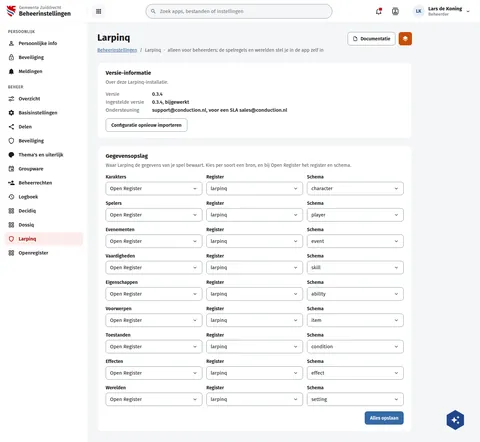
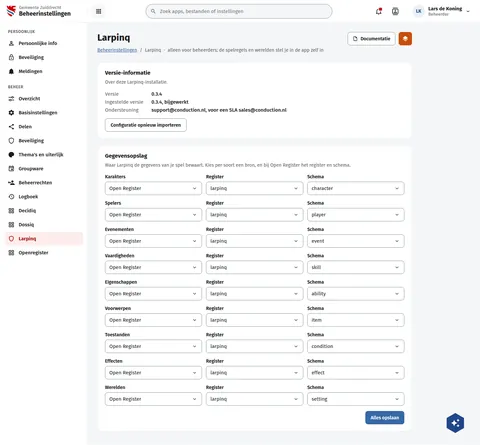
fix(screens): admin settings cards draw the shared 20px 22px padding
NcBeheerInstellingen drew its section cards at 20px 24px. Live's shared
admin card rule (look-board.css) is 20px 22px, as the Pt/Kq/Hu boards draw
it, so DqBeheerGeavanceerd's StUF-ZKN footnote wrapped one line early on the
board (r35 StUF-ZKN-endpoints -21). Coordinator call 29 Oct 13:00: keep the
shared rule, amend the board. Rebuilt with build.py --only for the three
boards that import the component.

Assisted-by: ClaudeCode:claude-opus-5-5

diff --git a/preview/screens/boards/DqBeheerGeavanceerd.html b/preview/screens/boards/DqBeheerGeavanceerd.html
@@ -85,7 +85,7 @@ a{color:var(--sc-primary, #3669a5)}a:hover{color:var(--sc-primary-deep, #234a78)
 </div>
 
         
-          <section aria-labelledby="nbi-s0" style="background: #ffffff; border: 1px solid var(--sc-work-line, #e4e6ea); border-radius: 12px; padding: 20px 24px; display: flex; flex-direction: column; gap: 6px">
+          <section aria-labelledby="nbi-s0" style="background: #ffffff; border: 1px solid var(--sc-work-line, #e4e6ea); border-radius: 12px; padding: 20px 22px; display: flex; flex-direction: column; gap: 6px">
             <h2 id="nbi-s0" style="margin: 0; font-size: 17px; font-weight: 700; line-height: 1.3">ZGW-API-koppeling</h2>
             <p style="margin: 0; font-size: 14px; color: var(--sc-work-muted, #5e6168); line-height: 1.5">Configureer eigenschapstoewijzingen tussen Engelse OpenRegister-velden en Nederlandse ZGW-API-velden</p>
             <div style="display: flex; flex-direction: column; gap: 16px; margin-top: 10px">
@@ -115,7 +115,7 @@ a{color:var(--sc-primary, #3669a5)}a:hover{color:var(--sc-primary-deep, #234a78)
             </div>
           </section>
         
-          <section aria-labelledby="nbi-s1" style="background: #ffffff; border: 1px solid var(--sc-work-line, #e4e6ea); border-radius: 12px; padding: 20px 24px; display: flex; flex-direction: column; gap: 6px">
+          <section aria-labelledby="nbi-s1" style="background: #ffffff; border: 1px solid var(--sc-work-line, #e4e6ea); border-radius: 12px; padding: 20px 22px; display: flex; flex-direction: column; gap: 6px">
             <h2 id="nbi-s1" style="margin: 0; font-size: 17px; font-weight: 700; line-height: 1.3">KCC-werkplek-integratie</h2>
             <p style="margin: 0; font-size: 14px; color: var(--sc-work-muted, #5e6168); line-height: 1.5">Burgeridentificatie, voorblad-limieten, sentiment-triggerwoorden en belplan-overflowdrempels voor de KCC-contactcenterbrug.</p>
             <div style="display: flex; flex-direction: column; gap: 16px; margin-top: 10px">
@@ -280,7 +280,7 @@ media</textarea><span style="font-size: 13px; color: var(--sc-work-muted, #5e616
             </div>
           </section>
         
-          <section aria-labelledby="nbi-s2" style="background: #ffffff; border: 1px solid var(--sc-work-line, #e4e6ea); border-radius: 12px; padding: 20px 24px; display: flex; flex-direction: column; gap: 6px">
+          <section aria-labelledby="nbi-s2" style="background: #ffffff; border: 1px solid var(--sc-work-line, #e4e6ea); border-radius: 12px; padding: 20px 22px; display: flex; flex-direction: column; gap: 6px">
             <h2 id="nbi-s2" style="margin: 0; font-size: 17px; font-weight: 700; line-height: 1.3">Beslistabellen (DMN)</h2>
             
             <div style="display: flex; flex-direction: column; gap: 16px; margin-top: 10px">
@@ -310,7 +310,7 @@ media</textarea><span style="font-size: 13px; color: var(--sc-work-muted, #5e616
             </div>
           </section>
         
-          <section aria-labelledby="nbi-s3" style="background: #ffffff; border: 1px solid var(--sc-work-line, #e4e6ea); border-radius: 12px; padding: 20px 24px; display: flex; flex-direction: column; gap: 6px">
+          <section aria-labelledby="nbi-s3" style="background: #ffffff; border: 1px solid var(--sc-work-line, #e4e6ea); border-radius: 12px; padding: 20px 22px; display: flex; flex-direction: column; gap: 6px">
             <h2 id="nbi-s3" style="margin: 0; font-size: 17px; font-weight: 700; line-height: 1.3">Financiële integratie: dwangsom-callback</h2>
             <p style="margin: 0; font-size: 14px; color: var(--sc-work-muted, #5e6168); line-height: 1.5">Configureer het gedeelde geheim waarmee ERP-betalingsbevestigingscallbacks voor dwangsomuitbetalingen worden gevalideerd.</p>
             <div style="display: flex; flex-direction: column; gap: 16px; margin-top: 10px">
@@ -406,7 +406,7 @@ media</textarea><span style="font-size: 13px; color: var(--sc-work-muted, #5e616
             </div>
           </section>
         
-          <section aria-labelledby="nbi-s4" style="background: #ffffff; border: 1px solid var(--sc-work-line, #e4e6ea); border-radius: 12px; padding: 20px 24px; display: flex; flex-direction: column; gap: 6px">
+          <section aria-labelledby="nbi-s4" style="background: #ffffff; border: 1px solid var(--sc-work-line, #e4e6ea); border-radius: 12px; padding: 20px 22px; display: flex; flex-direction: column; gap: 6px">
             <h2 id="nbi-s4" style="margin: 0; font-size: 17px; font-weight: 700; line-height: 1.3">StUF-ZKN-endpoints</h2>
             <p style="margin: 0; font-size: 14px; color: var(--sc-work-muted, #5e6168); line-height: 1.5">Uitgaande StUF-ZKN/BG-zaaksysteemendpoints per gemeente, met circuit-breakerstatus per endpoint. Endpoints, WSSE-inloggegevens en mTLS-certificaten worden beheerd door de platformbeheerder.</p>
             <div style="display: flex; flex-direction: column; gap: 16px; margin-top: 10px">
@@ -458,7 +458,7 @@ media</textarea><span style="font-size: 13px; color: var(--sc-work-muted, #5e616
             </div>
           </section>
         
-          <section aria-labelledby="nbi-s5" style="background: #ffffff; border: 1px solid var(--sc-work-line, #e4e6ea); border-radius: 12px; padding: 20px 24px; display: flex; flex-direction: column; gap: 6px">
+          <section aria-labelledby="nbi-s5" style="background: #ffffff; border: 1px solid var(--sc-work-line, #e4e6ea); border-radius: 12px; padding: 20px 22px; display: flex; flex-direction: column; gap: 6px">
             <h2 id="nbi-s5" style="margin: 0; font-size: 17px; font-weight: 700; line-height: 1.3">StUF-ZKN-auditlog</h2>
             <p style="margin: 0; font-size: 14px; color: var(--sc-work-muted, #5e6168); line-height: 1.5">Auditlog per aanroep voor uitgaande en inkomende StUF-SOAP-enveloppen (volledige XML, HTTP-status, duur, herhaalgeschiedenis).</p>
             <div style="display: flex; flex-direction: column; gap: 16px; margin-top: 10px">
@@ -532,7 +532,7 @@ media</textarea><span style="font-size: 13px; color: var(--sc-work-muted, #5e616
             </div>
           </section>
         
-          <section aria-labelledby="nbi-s6" style="background: #ffffff; border: 1px solid var(--sc-work-line, #e4e6ea); border-radius: 12px; padding: 20px 24px; display: flex; flex-direction: column; gap: 6px">
+          <section aria-labelledby="nbi-s6" style="background: #ffffff; border: 1px solid var(--sc-work-line, #e4e6ea); border-radius: 12px; padding: 20px 22px; display: flex; flex-direction: column; gap: 6px">
             <h2 id="nbi-s6" style="margin: 0; font-size: 17px; font-weight: 700; line-height: 1.3">Storeregister</h2>
             <p style="margin: 0; font-size: 14px; color: var(--sc-work-muted, #5e6168); line-height: 1.5">Verbind de OpenRegister-instantie die de Store-pagina doorzoekt. Zonder verbinding blijft dossiq offline en toont het alleen de eigen sjablonen.</p>
             <div style="display: flex; flex-direction: column; gap: 16px; margin-top: 10px">
@@ -650,7 +650,7 @@ media</textarea><span style="font-size: 13px; color: var(--sc-work-muted, #5e616
             </div>
           </section>
         
-          <section aria-labelledby="nbi-s7" style="background: #ffffff; border: 1px solid var(--sc-work-line, #e4e6ea); border-radius: 12px; padding: 20px 24px; display: flex; flex-direction: column; gap: 6px">
+          <section aria-labelledby="nbi-s7" style="background: #ffffff; border: 1px solid var(--sc-work-line, #e4e6ea); border-radius: 12px; padding: 20px 22px; display: flex; flex-direction: column; gap: 6px">
             <h2 id="nbi-s7" style="margin: 0; font-size: 17px; font-weight: 700; line-height: 1.3">Eerste keer</h2>
             <p style="margin: 0; font-size: 14px; color: var(--sc-work-muted, #5e6168); line-height: 1.5">Wat deze omgeving nog nodig heeft voordat er een zaak in kan. We melden het, we eisen het niet. Herstel het register met de knop Configuratie opnieuw importeren.</p>
             <div style="display: flex; flex-direction: column; gap: 16px; margin-top: 10px">
@@ -680,7 +680,7 @@ media</textarea><span style="font-size: 13px; color: var(--sc-work-muted, #5e616
             </div>
           </section>
         
-          <section aria-labelledby="nbi-s8" style="background: #ffffff; border: 1px solid var(--sc-work-line, #e4e6ea); border-radius: 12px; padding: 20px 24px; display: flex; flex-direction: column; gap: 6px">
+          <section aria-labelledby="nbi-s8" style="background: #ffffff; border: 1px solid var(--sc-work-line, #e4e6ea); border-radius: 12px; padding: 20px 22px; display: flex; flex-direction: column; gap: 6px">
             <h2 id="nbi-s8" style="margin: 0; font-size: 17px; font-weight: 700; line-height: 1.3">Vereisten</h2>
             <p style="margin: 0; font-size: 14px; color: var(--sc-work-muted, #5e6168); line-height: 1.5">Wat dossiq nodig heeft om te draaien, en wat deze instantie heeft. Live gelezen, elke keer dat u deze pagina opent.</p>
             <div style="display: flex; flex-direction: column; gap: 16px; margin-top: 10px">
@@ -754,7 +754,7 @@ media</textarea><span style="font-size: 13px; color: var(--sc-work-muted, #5e616
             </div>
           </section>
         
-          <section aria-labelledby="nbi-s9" style="background: #ffffff; border: 1px solid var(--sc-work-line, #e4e6ea); border-radius: 12px; padding: 20px 24px; display: flex; flex-direction: column; gap: 6px">
+          <section aria-labelledby="nbi-s9" style="background: #ffffff; border: 1px solid var(--sc-work-line, #e4e6ea); border-radius: 12px; padding: 20px 22px; display: flex; flex-direction: column; gap: 6px">
             <h2 id="nbi-s9" style="margin: 0; font-size: 17px; font-weight: 700; line-height: 1.3">Wat dossiq meelevert</h2>
             <p style="margin: 0; font-size: 14px; color: var(--sc-work-muted, #5e6168); line-height: 1.5">Elk zaaktype, elke status, elk resultaat en elke rol die dossiq plaatste, en of u die sindsdien veranderde. Een nieuwere meegeleverde versie wordt per object aangeboden en overschrijft nooit een wijziging van u.</p>
             <div style="display: flex; flex-direction: column; gap: 16px; margin-top: 10px">
@@ -806,7 +806,7 @@ media</textarea><span style="font-size: 13px; color: var(--sc-work-muted, #5e616
             </div>
           </section>
         
-          <section aria-labelledby="nbi-s10" style="background: #ffffff; border: 1px solid var(--sc-work-line, #e4e6ea); border-radius: 12px; padding: 20px 24px; display: flex; flex-direction: column; gap: 6px">
+          <section aria-labelledby="nbi-s10" style="background: #ffffff; border: 1px solid var(--sc-work-line, #e4e6ea); border-radius: 12px; padding: 20px 22px; display: flex; flex-direction: column; gap: 6px">
             <h2 id="nbi-s10" style="margin: 0; font-size: 17px; font-weight: 700; line-height: 1.3">Tenant-onboarding</h2>
             <p style="margin: 0; font-size: 14px; color: var(--sc-work-muted, #5e6168); line-height: 1.5">Volg een tenant door de zeven onboardingstappen, voer de go-live-gereedheidscontrole uit en activeer de tenant. Eenmalige inrichting, dus dit hoort hier en niet in de dagelijkse navigatie.</p>
             <div style="display: flex; flex-direction: column; gap: 16px; margin-top: 10px">
@@ -880,7 +880,7 @@ media</textarea><span style="font-size: 13px; color: var(--sc-work-muted, #5e616
             </div>
           </section>
         
-          <section aria-labelledby="nbi-s11" style="background: #ffffff; border: 1px solid var(--sc-work-line, #e4e6ea); border-radius: 12px; padding: 20px 24px; display: flex; flex-direction: column; gap: 6px">
+          <section aria-labelledby="nbi-s11" style="background: #ffffff; border: 1px solid var(--sc-work-line, #e4e6ea); border-radius: 12px; padding: 20px 22px; display: flex; flex-direction: column; gap: 6px">
             <h2 id="nbi-s11" style="margin: 0; font-size: 17px; font-weight: 700; line-height: 1.3">Zaaktypebeheer</h2>
             <p style="margin: 0; font-size: 14px; color: var(--sc-work-muted, #5e6168); line-height: 1.5">Zaaktypen, met hun statussen, velden, berichten en werkstroom, beheert u op de pagina Zaaktypen.</p>
             <div style="display: flex; flex-direction: column; gap: 16px; margin-top: 10px">
@@ -910,7 +910,7 @@ media</textarea><span style="font-size: 13px; color: var(--sc-work-muted, #5e616
             </div>
           </section>
         
-          <section aria-labelledby="nbi-s12" style="background: #ffffff; border: 1px solid var(--sc-work-line, #e4e6ea); border-radius: 12px; padding: 20px 24px; display: flex; flex-direction: column; gap: 6px">
+          <section aria-labelledby="nbi-s12" style="background: #ffffff; border: 1px solid var(--sc-work-line, #e4e6ea); border-radius: 12px; padding: 20px 22px; display: flex; flex-direction: column; gap: 6px">
             <h2 id="nbi-s12" style="margin: 0; font-size: 17px; font-weight: 700; line-height: 1.3">AWB-termijndefinities</h2>
             <p style="margin: 0; font-size: 14px; color: var(--sc-work-muted, #5e6168); line-height: 1.5">Configureer wettelijke termijndefinities per zaaktype voor AWB-termijnbewaking (wettelijke grondslag, duur, geldigheid). Versiebeheer wordt afgedwongen bij opslaan.</p>
             <div style="display: flex; flex-direction: column; gap: 16px; margin-top: 10px">
@@ -984,7 +984,7 @@ media</textarea><span style="font-size: 13px; color: var(--sc-work-muted, #5e616
             </div>
           </section>
         
-          <section aria-labelledby="nbi-s13" style="background: #ffffff; border: 1px solid var(--sc-work-line, #e4e6ea); border-radius: 12px; padding: 20px 24px; display: flex; flex-direction: column; gap: 6px">
+          <section aria-labelledby="nbi-s13" style="background: #ffffff; border: 1px solid var(--sc-work-line, #e4e6ea); border-radius: 12px; padding: 20px 22px; display: flex; flex-direction: column; gap: 6px">
             <h2 id="nbi-s13" style="margin: 0; font-size: 17px; font-weight: 700; line-height: 1.3">Urgentie in de werkvoorraad</h2>
             <p style="margin: 0; font-size: 14px; color: var(--sc-work-muted, #5e6168); line-height: 1.5">Wanneer een zaak kritiek of bijna is, en hoe zwaar prioriteit en stilliggen wegen in de volgorde.</p>
             <div style="display: flex; flex-direction: column; gap: 16px; margin-top: 10px">
@@ -1080,7 +1080,7 @@ media</textarea><span style="font-size: 13px; color: var(--sc-work-muted, #5e616
             </div>
           </section>
         
-          <section aria-labelledby="nbi-s14" style="background: #ffffff; border: 1px solid var(--sc-work-line, #e4e6ea); border-radius: 12px; padding: 20px 24px; display: flex; flex-direction: column; gap: 6px">
+          <section aria-labelledby="nbi-s14" style="background: #ffffff; border: 1px solid var(--sc-work-line, #e4e6ea); border-radius: 12px; padding: 20px 22px; display: flex; flex-direction: column; gap: 6px">
             <h2 id="nbi-s14" style="margin: 0; font-size: 17px; font-weight: 700; line-height: 1.3">Mandaatmatrix: administratie</h2>
             <p style="margin: 0; font-size: 14px; color: var(--sc-work-muted, #5e6168); line-height: 1.5">Configureer mandaatbesluiten, organisatierollen, roltoewijzingen en importeer oude mandaatexports</p>
             <div style="display: flex; flex-direction: column; gap: 16px; margin-top: 10px">
@@ -1154,7 +1154,7 @@ media</textarea><span style="font-size: 13px; color: var(--sc-work-muted, #5e616
             </div>
           </section>
         
-          <section aria-labelledby="nbi-s15" style="background: #ffffff; border: 1px solid var(--sc-work-line, #e4e6ea); border-radius: 12px; padding: 20px 24px; display: flex; flex-direction: column; gap: 6px">
+          <section aria-labelledby="nbi-s15" style="background: #ffffff; border: 1px solid var(--sc-work-line, #e4e6ea); border-radius: 12px; padding: 20px 22px; display: flex; flex-direction: column; gap: 6px">
             <h2 id="nbi-s15" style="margin: 0; font-size: 17px; font-weight: 700; line-height: 1.3">Archivering</h2>
             <p style="margin: 0; font-size: 14px; color: var(--sc-work-muted, #5e6168); line-height: 1.5">Hoe vaak een beoordelaar wordt herinnerd aan de archiefbeslissingen die bij hem liggen. De instelling staat in OpenRegister, dat het archiveringsproces uitvoert; dossiq bewaart er geen kopie van.</p>
             <div style="display: flex; flex-direction: column; gap: 16px; margin-top: 10px">
@@ -1206,7 +1206,7 @@ media</textarea><span style="font-size: 13px; color: var(--sc-work-muted, #5e616
             </div>
           </section>
         
-          <section aria-labelledby="nbi-s16" style="background: #ffffff; border: 1px solid var(--sc-work-line, #e4e6ea); border-radius: 12px; padding: 20px 24px; display: flex; flex-direction: column; gap: 6px">
+          <section aria-labelledby="nbi-s16" style="background: #ffffff; border: 1px solid var(--sc-work-line, #e4e6ea); border-radius: 12px; padding: 20px 22px; display: flex; flex-direction: column; gap: 6px">
             <h2 id="nbi-s16" style="margin: 0; font-size: 17px; font-weight: 700; line-height: 1.3">Woo-beoordelingsrapportages</h2>
             <p style="margin: 0; font-size: 14px; color: var(--sc-work-muted, #5e6168); line-height: 1.5">Kies welke Woo-beoordelingsrapportages je organisatie gebruikt, en wie de productie per beoordelaar mag lezen.</p>
             <div style="display: flex; flex-direction: column; gap: 16px; margin-top: 10px">

diff --git a/preview/screens/boards/DqBeheerinstellingen.html b/preview/screens/boards/DqBeheerinstellingen.html
@@ -85,7 +85,7 @@ a{color:var(--sc-primary, #3669a5)}a:hover{color:var(--sc-primary-deep, #234a78)
 </div>
 
         
-          <section aria-labelledby="nbi-s0" style="background: #ffffff; border: 1px solid var(--sc-work-line, #e4e6ea); border-radius: 12px; padding: 20px 24px; display: flex; flex-direction: column; gap: 6px">
+          <section aria-labelledby="nbi-s0" style="background: #ffffff; border: 1px solid var(--sc-work-line, #e4e6ea); border-radius: 12px; padding: 20px 22px; display: flex; flex-direction: column; gap: 6px">
             <h2 id="nbi-s0" style="margin: 0; font-size: 17px; font-weight: 700; line-height: 1.3">Configuratie<span role="img" aria-label="Documentatie" style="display: inline-flex; margin-left: 6px; vertical-align: -4px"><svg width="20" height="20" viewbox="0 0 24 24" fill="#3669a5" aria-hidden="true" style="fill:var(--sc-primary, #3669a5)"><path d="M15.07,11.25L14.17,12.17C13.45,12.89 13,13.5 13,15H11V14.5C11,13.39 11.45,12.39 12.17,11.67L13.41,10.41C13.78,10.05 14,9.55 14,9C14,7.89 13.1,7 12,7A2,2 0 0,0 10,9H8A4,4 0 0,1 12,5A4,4 0 0,1 16,9C16,9.88 15.64,10.67 15.07,11.25M13,19H11V17H13M12,2A10,10 0 0,0 2,12A10,10 0 0,0 12,22A10,10 0 0,0 22,12C22,6.47 17.5,2 12,2Z"></path></svg></span></h2>
             <p style="margin: 0; font-size: 14px; color: var(--sc-work-muted, #5e6168); line-height: 1.5">In welk register Dossiq zaken bewaart, en met welke schema's.</p>
             <div style="display: flex; flex-direction: column; gap: 16px; margin-top: 10px">
@@ -203,7 +203,7 @@ a{color:var(--sc-primary, #3669a5)}a:hover{color:var(--sc-primary-deep, #234a78)
             </div>
           </section>
         
-          <section aria-labelledby="nbi-s1" style="background: #ffffff; border: 1px solid var(--sc-work-line, #e4e6ea); border-radius: 12px; padding: 20px 24px; display: flex; flex-direction: column; gap: 6px">
+          <section aria-labelledby="nbi-s1" style="background: #ffffff; border: 1px solid var(--sc-work-line, #e4e6ea); border-radius: 12px; padding: 20px 22px; display: flex; flex-direction: column; gap: 6px">
             <h2 id="nbi-s1" style="margin: 0; font-size: 17px; font-weight: 700; line-height: 1.3">Menustructuur</h2>
             <p style="margin: 0; font-size: 14px; color: var(--sc-work-muted, #5e6168); line-height: 1.5">Hoeveel het menu laat zien. Eenvoudig is de standaard.</p>
             <div style="display: flex; flex-direction: column; gap: 16px; margin-top: 10px">
@@ -233,7 +233,7 @@ a{color:var(--sc-primary, #3669a5)}a:hover{color:var(--sc-primary-deep, #234a78)
             </div>
           </section>
         
-          <section aria-labelledby="nbi-s2" style="background: #ffffff; border: 1px solid var(--sc-work-line, #e4e6ea); border-radius: 12px; padding: 20px 24px; display: flex; flex-direction: column; gap: 6px">
+          <section aria-labelledby="nbi-s2" style="background: #ffffff; border: 1px solid var(--sc-work-line, #e4e6ea); border-radius: 12px; padding: 20px 22px; display: flex; flex-direction: column; gap: 6px">
             <h2 id="nbi-s2" style="margin: 0; font-size: 17px; font-weight: 700; line-height: 1.3">Serviceaccount voor achtergrondtaken</h2>
             <p style="margin: 0; font-size: 14px; color: var(--sc-work-muted, #5e6168); line-height: 1.5">Het account waarmee Dossiq werkt als er niemand is ingelogd, zoals bij termijnbewaking en mail ophalen.</p>
             <div style="display: flex; flex-direction: column; gap: 16px; margin-top: 10px">
@@ -263,7 +263,7 @@ a{color:var(--sc-primary, #3669a5)}a:hover{color:var(--sc-primary-deep, #234a78)
             </div>
           </section>
         
-          <section aria-labelledby="nbi-s3" style="background: #ffffff; border: 1px solid var(--sc-work-line, #e4e6ea); border-radius: 12px; padding: 20px 24px; display: flex; flex-direction: column; gap: 6px">
+          <section aria-labelledby="nbi-s3" style="background: #ffffff; border: 1px solid var(--sc-work-line, #e4e6ea); border-radius: 12px; padding: 20px 22px; display: flex; flex-direction: column; gap: 6px">
             <h2 id="nbi-s3" style="margin: 0; font-size: 17px; font-weight: 700; line-height: 1.3">Zaak-e-mail: gedeelde mailbox</h2>
             <p style="margin: 0; font-size: 14px; color: var(--sc-work-muted, #5e6168); line-height: 1.5">Mail aan de gedeelde mailbox komt binnen als zaak of bij een bestaande zaak.</p>
             <div style="display: flex; flex-direction: column; gap: 16px; margin-top: 10px">
@@ -425,7 +425,7 @@ a{color:var(--sc-primary, #3669a5)}a:hover{color:var(--sc-primary-deep, #234a78)
             </div>
           </section>
         
-          <section aria-labelledby="nbi-s4" style="background: #ffffff; border: 1px solid var(--sc-work-line, #e4e6ea); border-radius: 12px; padding: 20px 24px; display: flex; flex-direction: column; gap: 6px">
+          <section aria-labelledby="nbi-s4" style="background: #ffffff; border: 1px solid var(--sc-work-line, #e4e6ea); border-radius: 12px; padding: 20px 22px; display: flex; flex-direction: column; gap: 6px">
             <h2 id="nbi-s4" style="margin: 0; font-size: 17px; font-weight: 700; line-height: 1.3">AI-ondersteunde verwerking</h2>
             <p style="margin: 0; font-size: 14px; color: var(--sc-work-muted, #5e6168); line-height: 1.5">Samenvatten, classificeren en anonimiseren met een taalmodel dat jij kiest.</p>
             <div style="display: flex; flex-direction: column; gap: 16px; margin-top: 10px">
@@ -587,7 +587,7 @@ a{color:var(--sc-primary, #3669a5)}a:hover{color:var(--sc-primary-deep, #234a78)
             </div>
           </section>
         
-          <section aria-labelledby="nbi-s5" style="background: #ffffff; border: 1px solid var(--sc-work-line, #e4e6ea); border-radius: 12px; padding: 20px 24px; display: flex; flex-direction: column; gap: 6px">
+          <section aria-labelledby="nbi-s5" style="background: #ffffff; border: 1px solid var(--sc-work-line, #e4e6ea); border-radius: 12px; padding: 20px 22px; display: flex; flex-direction: column; gap: 6px">
             <h2 id="nbi-s5" style="margin: 0; font-size: 17px; font-weight: 700; line-height: 1.3">Adviseringsbeheer<span role="img" aria-label="Documentatie" style="display: inline-flex; margin-left: 6px; vertical-align: -4px"><svg width="20" height="20" viewbox="0 0 24 24" fill="#3669a5" aria-hidden="true" style="fill:var(--sc-primary, #3669a5)"><path d="M15.07,11.25L14.17,12.17C13.45,12.89 13,13.5 13,15H11V14.5C11,13.39 11.45,12.39 12.17,11.67L13.41,10.41C13.78,10.05 14,9.55 14,9C14,7.89 13.1,7 12,7A2,2 0 0,0 10,9H8A4,4 0 0,1 12,5A4,4 0 0,1 16,9C16,9.88 15.64,10.67 15.07,11.25M13,19H11V17H13M12,2A10,10 0 0,0 2,12A10,10 0 0,0 12,22A10,10 0 0,0 22,12C22,6.47 17.5,2 12,2Z"></path></svg></span></h2>
             <p style="margin: 0; font-size: 14px; color: var(--sc-work-muted, #5e6168); line-height: 1.5">Standaarden voor adviesvragen aan andere afdelingen en organisaties.</p>
             <div style="display: flex; flex-direction: column; gap: 16px; margin-top: 10px">
@@ -683,7 +683,7 @@ a{color:var(--sc-primary, #3669a5)}a:hover{color:var(--sc-primary-deep, #234a78)
             </div>
           </section>
         
-          <section aria-labelledby="nbi-s6" style="background: #ffffff; border: 1px solid var(--sc-work-line, #e4e6ea); border-radius: 12px; padding: 20px 24px; display: flex; flex-direction: column; gap: 6px">
+          <section aria-labelledby="nbi-s6" style="background: #ffffff; border: 1px solid var(--sc-work-line, #e4e6ea); border-radius: 12px; padding: 20px 22px; display: flex; flex-direction: column; gap: 6px">
             <h2 id="nbi-s6" style="margin: 0; font-size: 17px; font-weight: 700; line-height: 1.3">Zoekindex</h2>
             <p style="margin: 0; font-size: 14px; color: var(--sc-work-muted, #5e6168); line-height: 1.5">Zaken, documenten en contacten in de zoekbalk van Dossiq.</p>
             <div style="display: flex; flex-direction: column; gap: 16px; margin-top: 10px">

diff --git a/preview/screens/boards/LrBeheerinstellingen.html b/preview/screens/boards/LrBeheerinstellingen.html
@@ -83,7 +83,7 @@ a{color:var(--sc-primary, #3669a5)}a:hover{color:var(--sc-primary-deep, #234a78)
 </div>
 
         
-          <section aria-labelledby="nbi-s0" style="background: #ffffff; border: 1px solid var(--sc-work-line, #e4e6ea); border-radius: 12px; padding: 20px 24px; display: flex; flex-direction: column; gap: 6px">
+          <section aria-labelledby="nbi-s0" style="background: #ffffff; border: 1px solid var(--sc-work-line, #e4e6ea); border-radius: 12px; padding: 20px 22px; display: flex; flex-direction: column; gap: 6px">
             <h2 id="nbi-s0" style="margin: 0; font-size: 17px; font-weight: 700; line-height: 1.3">Versie-informatie</h2>
             <p style="margin: 0; font-size: 14px; color: var(--sc-work-muted, #5e6168); line-height: 1.5">Over deze Larpinq-installatie.</p>
             <div style="display: flex; flex-direction: column; gap: 16px; margin-top: 10px">
@@ -135,7 +135,7 @@ a{color:var(--sc-primary, #3669a5)}a:hover{color:var(--sc-primary-deep, #234a78)
             </div>
           </section>
         
-          <section aria-labelledby="nbi-s1" style="background: #ffffff; border: 1px solid var(--sc-work-line, #e4e6ea); border-radius: 12px; padding: 20px 24px; display: flex; flex-direction: column; gap: 6px">
+          <section aria-labelledby="nbi-s1" style="background: #ffffff; border: 1px solid var(--sc-work-line, #e4e6ea); border-radius: 12px; padding: 20px 22px; display: flex; flex-direction: column; gap: 6px">
             <h2 id="nbi-s1" style="margin: 0; font-size: 17px; font-weight: 700; line-height: 1.3">Gegevensopslag</h2>
             <p style="margin: 0; font-size: 14px; color: var(--sc-work-muted, #5e6168); line-height: 1.5">Waar Larpinq de gegevens van je spel bewaart. Kies per soort een bron, en bij Open Register het register en schema.</p>
             <div style="display: flex; flex-direction: column; gap: 16px; margin-top: 10px">

diff --git a/screens-src/zuiddrecht/NcBeheerInstellingen.dc.html b/screens-src/zuiddrecht/NcBeheerInstellingen.dc.html
@@ -22,7 +22,7 @@ a{color:#3669a5}a:hover{color:#234a78}
       <main style="{{ mainStyle }}">
         <dc-import name="NcBeheerKop" app="{{ app }}" title="{{ title }}" section="{{ section }}" scope="{{ scope }}" tabs="{{ tabs }}" hint-size="100%,96px"></dc-import>
         <sc-for list="{{ cards }}" as="s" hint-placeholder-count="3">
-          <section aria-labelledby="{{ s.id }}" style="background: #ffffff; border: 1px solid #e4e6ea; border-radius: 12px; padding: 20px 24px; display: flex; flex-direction: column; gap: 6px">
+          <section aria-labelledby="{{ s.id }}" style="background: #ffffff; border: 1px solid #e4e6ea; border-radius: 12px; padding: 20px 22px; display: flex; flex-direction: column; gap: 6px">
             <h2 id="{{ s.id }}" style="margin: 0; font-size: 17px; font-weight: 700; line-height: 1.3">{{ s.name }}<sc-if value="{{ s.help }}"><span role="img" aria-label="Documentatie" style="display: inline-flex; margin-left: 6px; vertical-align: -4px"><svg width="20" height="20" viewBox="0 0 24 24" fill="#3669a5" aria-hidden="true"><path d="M15.07,11.25L14.17,12.17C13.45,12.89 13,13.5 13,15H11V14.5C11,13.39 11.45,12.39 12.17,11.67L13.41,10.41C13.78,10.05 14,9.55 14,9C14,7.89 13.1,7 12,7A2,2 0 0,0 10,9H8A4,4 0 0,1 12,5A4,4 0 0,1 16,9C16,9.88 15.64,10.67 15.07,11.25M13,19H11V17H13M12,2A10,10 0 0,0 2,12A10,10 0 0,0 12,22A10,10 0 0,0 22,12C22,6.47 17.5,2 12,2Z"></path></svg></span></sc-if></h2>
             <sc-if value="{{ s.hasDesc }}"><p style="margin: 0; font-size: 14px; color: #5e6168; line-height: 1.5">{{ s.desc }}</p></sc-if>
             <div style="display: flex; flex-direction: column; gap: 16px; margin-top: 10px">
